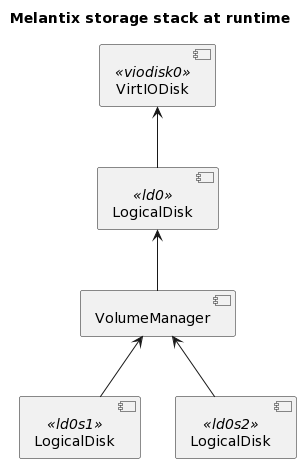
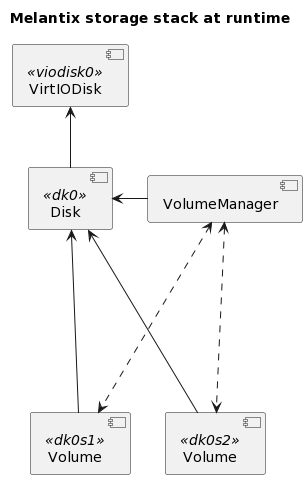
viofsprt: skeleton VirtIO-FS FUSE port driver

diff --git a/driver/pcibus/pcibus.cc b/driver/pcibus/pcibus.cc
@@ -8,6 +8,7 @@
 #include "lai/helpers/pci.h"
 
 #include "../viofam/viodisk.hh"
+#include "../viofam/viofsprt.hh"
 #include "pcibus.hh"
 
 enum {
@@ -61,13 +62,18 @@ PCIDevice::PCIDevice(PCIBus *provider, pci_device_info &info)
 	    info.deviceId);
 	if (info.vendorId == 0x1af4 && info.deviceId == 0x1001) {
 		new (kmem_general) VirtIODisk(this, info);
+	} else if (info.vendorId == 0x1af4 && info.deviceId == 0x105a) {
+		new (kmem_general) VirtIOFSPort(this, info);
 	}
 }
 
 void
-PCIDevice::enableMemorySpace(pci_device_info &info)
+PCIDevice::enableMemorySpace(pci_device_info &info, bool enabled)
 {
-	ENABLE_CMD_FLAG(&info, 0x1 | 0x2);
+	if (enabled)
+		ENABLE_CMD_FLAG(&info, 0x1 | 0x2);
+	else
+		DISABLE_CMD_FLAG(&info, 0x1 | 0x2);
 }
 
 void
@@ -111,6 +117,8 @@ PCIDevice::getBar(pci_device_info &info, uint8_t num)
 
 	bar = laihost_pci_readd(INFO_ARGS(&info), off);
 
+	kdprintf("NUM: %d\n", num);
+
 	if ((bar & 1) == 1) {
 		kfatal("I/O space bar\n");
 	} else if (((bar >> 1) & 3) == 0) {
@@ -133,12 +141,13 @@ PCIDevice::getBar(pci_device_info &info, uint8_t num)
 		bar_high = laihost_pci_readd(INFO_ARGS(&info), off + 4);
 		base = (bar & 0xFFFFFFF0) | (bar_high << 32);
 
-		laihost_pci_writed(INFO_ARGS(&info), off, 0xffffffff);
-		size_mask = laihost_pci_readd(INFO_ARGS(&info), off);
-		laihost_pci_writed(INFO_ARGS(&info), off, bar);
+		kdprintf("64-bit bar: base 0x%lx\n", base);
 
+		laihost_pci_writed(INFO_ARGS(&info), off, 0xffffffff);
 		laihost_pci_writed(INFO_ARGS(&info), off + 4, 0xffffffff);
+		size_mask = laihost_pci_readd(INFO_ARGS(&info), off);
 		size_mask_high = laihost_pci_readd(INFO_ARGS(&info), off + 4);
+		laihost_pci_writed(INFO_ARGS(&info), off, bar);
 		laihost_pci_writed(INFO_ARGS(&info), off + 4, bar_high);
 
 		size_mask |= size_mask_high << 32;

diff --git a/driver/viofam/viodev.cc b/driver/viofam/viodev.cc
@@ -3,8 +3,8 @@
  * Created on Thu Feb 23 2023.
  */
 
-#include "dev/virtioreg.h"
 #include "dev/virtio_pcireg.h"
+#include "dev/virtioreg.h"
 #include "kdk/amd64/mdamd64.h"
 #include "kdk/kernel.h"
 #include "kdk/libkern.h"
@@ -99,6 +99,14 @@ VirtIODevice::enumerateCapabilitiesCallback(pci_device_info *info, voff_t pCap,
 		/* epsilon */
 		break;
 
+	case VIRTIO_PCI_CAP_SHARED_MEMORY_CFG: {
+		void *data = dev->device_cfg =
+		    ((char *)P2V(PCIDevice::getBar(dev->pci_info, cap.bar)) +
+			cap.offset);
+		kdprintf("Shared Memory is at %p\n", data);
+		break;
+	}
+
 	default:
 		DKLog("VirtIODevice", "unknown capability config type %d\n",
 		    cap.cfg_type);
@@ -109,9 +117,11 @@ VirtIODevice::VirtIODevice(PCIDevice *provider, pci_device_info &info)
     : pci_info(info)
 {
 	PCIDevice::enableBusMastering(info);
-	PCIDevice::enableMemorySpace(info);
+	/*! need to disable this before playing with BARs */
+	PCIDevice::enableMemorySpace(info, false);
 	PCIDevice::enumerateCapabilities(info, enumerateCapabilitiesCallback,
 	    this);
+	PCIDevice::enableMemorySpace(info);
 
 	m_common_cfg->device_status = VIRTIO_CONFIG_DEVICE_STATUS_RESET;
 	__sync_synchronize();

diff --git a/driver/viofam/viofsprt.cc b/driver/viofam/viofsprt.cc
@@ -1,0 +1,14 @@
+/*
+ * Copyright (c) 2023 The Melantix Project.
+ * Created on Tue Feb 28 2023.
+ */
+
+#include "viofsprt.hh"
+
+static int sequence_num = 0;
+
+VirtIOFSPort::VirtIOFSPort(PCIDevice *provider, pci_device_info &info)
+    : VirtIODevice(provider, info)
+{
+	kmem_asprintf(&objhdr.name, "viofsprt%d", sequence_num++);
+}

diff --git a/docs/internals/io.rst b/docs/internals/io.rst
@@ -12,6 +12,6 @@ Storage Stack
 
 In this example storage stack, there is a VirtIODisk (`viodisk0`) at the root of the stack,
 which interfaces directly with the hardware (and - not pictured - below it would
-be a PCIDevice.) An attached LogicalDisk (`ld0`) provides the standard
-conveniences. Attached to `ld0` is a VolumeManager, which has detected two GPT
-partitions and created and attached two LogicalDisks (`ld0s1` and `ld0s2`).
+be a PCIDevice.) An attached Disk (`dk0`) provides the standard
+conveniences. Attached to `dk0` is a VolumeManager, which has detected two GPT
+partitions and created and attached two Volumes (`ld0s1` and `ld0s2`).

diff --git a/docs/vfs.md b/docs/vfs.md
@@ -1,7 +1,7 @@
 VFS
 ===
 
-The in-kernel VFS is more Unix-like than NT-like.
+The kernel VFS is mostly modeled after SunOS VFS. 
 
 Two public objects are associated with it:
  - the File object - resembles a Unix kernel file descriptor.
